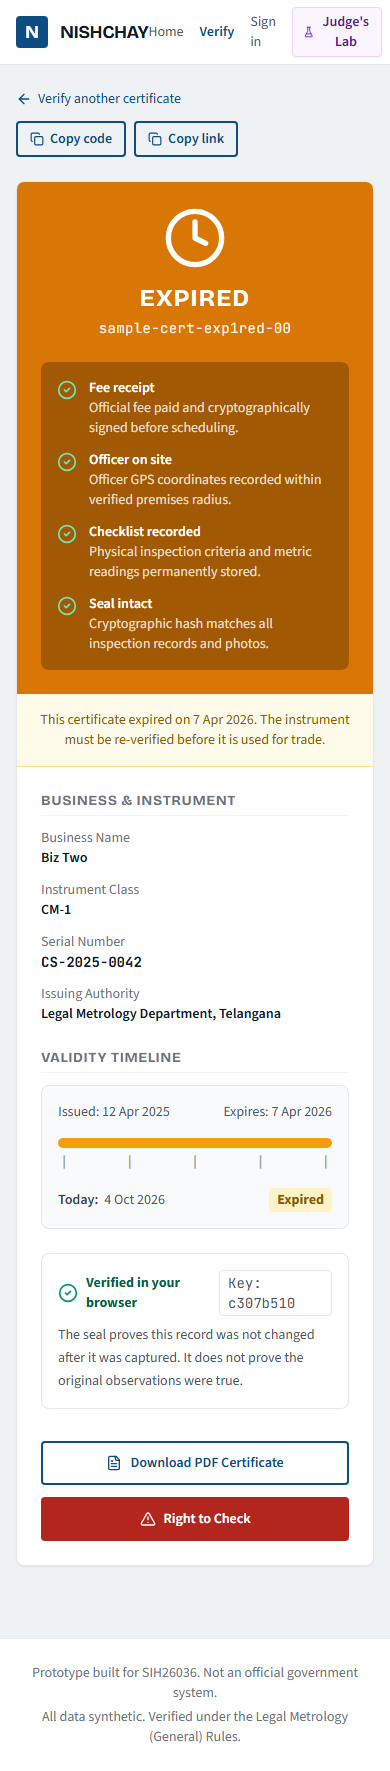
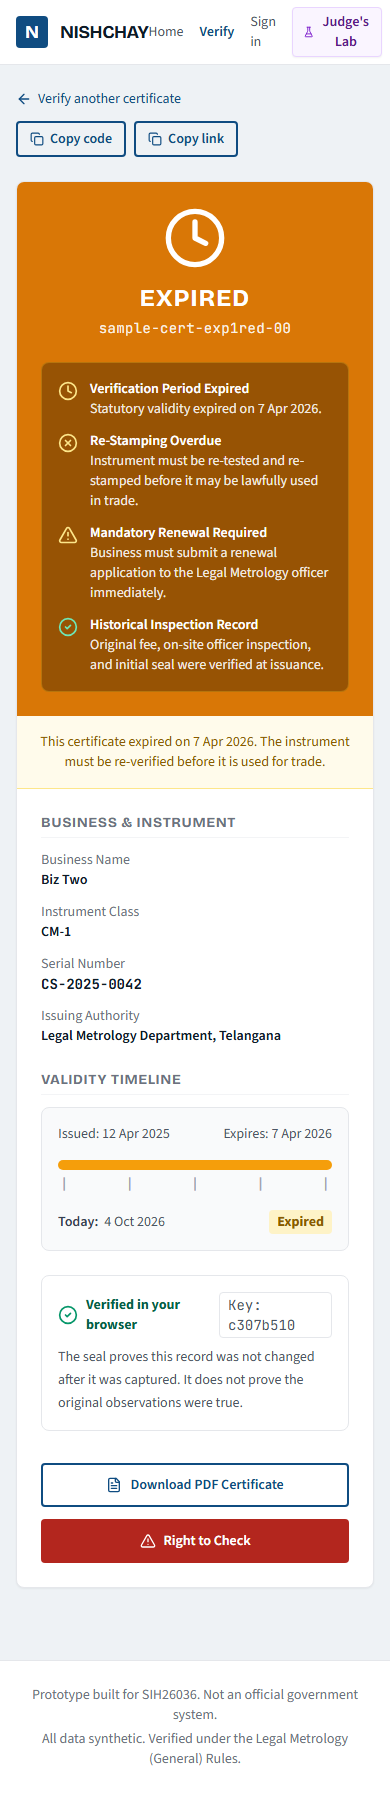
fix(ui): show contextual legal notices for revoked and expired certificates

diff --git a/web/src/pages/PublicVerify.tsx b/web/src/pages/PublicVerify.tsx
@@ -296,56 +296,142 @@ export const PublicVerify = () => {
             </h1>
             <p className="mt-1 opacity-90 font-mono text-sm tracking-wide">{id}</p>
             
-            {/* 4 Ticks derived from real data with sequential lighting */}
-            <div className="mt-6 w-full text-left space-y-3 bg-black/25 p-4 rounded-lg text-sm">
-              <div className={`flex items-start gap-3 transition-opacity duration-300 ${animStep >= 1 ? 'opacity-100' : 'opacity-40'}`}>
-                {data.ticks.feeReceipt ? (
-                  <CheckCircle2 className="w-5 h-5 text-emerald-300 shrink-0 mt-0.5" />
-                ) : (
-                  <XCircle className="w-5 h-5 text-red-300 shrink-0 mt-0.5" />
-                )}
-                <div>
-                  <div className="font-semibold">Fee receipt</div>
-                  <div className="text-xs text-white/80">Official fee paid and cryptographically signed before scheduling.</div>
+            {/* Contextual Status Plate Details */}
+            {isRevoked ? (
+              <div className="mt-6 w-full text-left space-y-3 bg-black/30 p-4 rounded-lg text-sm border border-red-400/30">
+                <div className="flex items-start gap-3">
+                  <Ban className="w-5 h-5 text-red-300 shrink-0 mt-0.5" />
+                  <div>
+                    <div className="font-semibold text-white">Statutory Revocation Order</div>
+                    <div className="text-xs text-white/90">
+                      Certificate revoked by order of Legal Metrology Authority on {data.revokedAt ? formatDate(data.revokedAt) : 'record date'}.
+                    </div>
+                  </div>
                 </div>
-              </div>
 
-              <div className={`flex items-start gap-3 transition-opacity duration-300 ${animStep >= 2 ? 'opacity-100' : 'opacity-40'}`}>
-                {data.ticks.officerOnSite ? (
-                  <CheckCircle2 className="w-5 h-5 text-emerald-300 shrink-0 mt-0.5" />
-                ) : (
+                <div className="flex items-start gap-3">
                   <XCircle className="w-5 h-5 text-red-300 shrink-0 mt-0.5" />
-                )}
-                <div>
-                  <div className="font-semibold">Officer on site</div>
-                  <div className="text-xs text-white/80">Officer GPS coordinates recorded within verified premises radius.</div>
+                  <div>
+                    <div className="font-semibold text-white">Commercial Trade Prohibited</div>
+                    <div className="text-xs text-white/90">
+                      Instrument is disqualified from commercial transactions under the Legal Metrology Act.
+                    </div>
+                  </div>
                 </div>
-              </div>
 
-              <div className={`flex items-start gap-3 transition-opacity duration-300 ${animStep >= 3 ? 'opacity-100' : 'opacity-40'}`}>
-                {data.ticks.checklistRecorded ? (
-                  <CheckCircle2 className="w-5 h-5 text-emerald-300 shrink-0 mt-0.5" />
-                ) : (
-                  <XCircle className="w-5 h-5 text-red-300 shrink-0 mt-0.5" />
-                )}
-                <div>
-                  <div className="font-semibold">Checklist recorded</div>
-                  <div className="text-xs text-white/80">Physical inspection criteria and metric readings permanently stored.</div>
+                <div className="flex items-start gap-3">
+                  <AlertTriangle className="w-5 h-5 text-amber-300 shrink-0 mt-0.5" />
+                  <div>
+                    <div className="font-semibold text-white">Enforcement Notice</div>
+                    <div className="text-xs text-white/90">
+                      Using this instrument for trade without fresh verification constitutes a punishable statutory offense.
+                    </div>
+                  </div>
                 </div>
-              </div>
 
-              <div className={`flex items-start gap-3 transition-opacity duration-300 ${animStep >= 4 ? 'opacity-100' : 'opacity-40'}`}>
-                {data.ticks.sealIntact ? (
-                  <CheckCircle2 className="w-5 h-5 text-emerald-300 shrink-0 mt-0.5" />
-                ) : (
+                <div className="flex items-start gap-3">
                   <XCircle className="w-5 h-5 text-red-300 shrink-0 mt-0.5" />
-                )}
-                <div>
-                  <div className="font-semibold">Seal intact</div>
-                  <div className="text-xs text-white/80">Cryptographic hash matches all inspection records and photos.</div>
+                  <div>
+                    <div className="font-semibold text-white">Certificate Null and Void</div>
+                    <div className="text-xs text-white/90">
+                      Prior inspection certificate is cancelled and cannot be relied upon by citizens or traders.
+                    </div>
+                  </div>
                 </div>
               </div>
-            </div>
+            ) : isExpired ? (
+              <div className="mt-6 w-full text-left space-y-3 bg-black/30 p-4 rounded-lg text-sm border border-amber-400/30">
+                <div className="flex items-start gap-3">
+                  <Clock className="w-5 h-5 text-amber-200 shrink-0 mt-0.5" />
+                  <div>
+                    <div className="font-semibold text-white">Verification Period Expired</div>
+                    <div className="text-xs text-white/90">
+                      Statutory validity expired on {data.validUntil ? formatDate(data.validUntil) : 'expiry date'}.
+                    </div>
+                  </div>
+                </div>
+
+                <div className="flex items-start gap-3">
+                  <XCircle className="w-5 h-5 text-amber-200 shrink-0 mt-0.5" />
+                  <div>
+                    <div className="font-semibold text-white">Re-Stamping Overdue</div>
+                    <div className="text-xs text-white/90">
+                      Instrument must be re-tested and re-stamped before it may be lawfully used in trade.
+                    </div>
+                  </div>
+                </div>
+
+                <div className="flex items-start gap-3">
+                  <AlertTriangle className="w-5 h-5 text-amber-200 shrink-0 mt-0.5" />
+                  <div>
+                    <div className="font-semibold text-white">Mandatory Renewal Required</div>
+                    <div className="text-xs text-white/90">
+                      Business must submit a renewal application to the Legal Metrology officer immediately.
+                    </div>
+                  </div>
+                </div>
+
+                <div className="flex items-start gap-3">
+                  <CheckCircle2 className="w-5 h-5 text-emerald-300 shrink-0 mt-0.5" />
+                  <div>
+                    <div className="font-semibold text-white">Historical Inspection Record</div>
+                    <div className="text-xs text-white/90">
+                      Original fee, on-site officer inspection, and initial seal were verified at issuance.
+                    </div>
+                  </div>
+                </div>
+              </div>
+            ) : (
+              <div className="mt-6 w-full text-left space-y-3 bg-black/25 p-4 rounded-lg text-sm">
+                <div className={`flex items-start gap-3 transition-opacity duration-300 ${animStep >= 1 ? 'opacity-100' : 'opacity-40'}`}>
+                  {data.ticks.feeReceipt ? (
+                    <CheckCircle2 className="w-5 h-5 text-emerald-300 shrink-0 mt-0.5" />
+                  ) : (
+                    <XCircle className="w-5 h-5 text-red-300 shrink-0 mt-0.5" />
+                  )}
+                  <div>
+                    <div className="font-semibold">Fee receipt</div>
+                    <div className="text-xs text-white/80">Official fee paid and cryptographically signed before scheduling.</div>
+                  </div>
+                </div>
+
+                <div className={`flex items-start gap-3 transition-opacity duration-300 ${animStep >= 2 ? 'opacity-100' : 'opacity-40'}`}>
+                  {data.ticks.officerOnSite ? (
+                    <CheckCircle2 className="w-5 h-5 text-emerald-300 shrink-0 mt-0.5" />
+                  ) : (
+                    <XCircle className="w-5 h-5 text-red-300 shrink-0 mt-0.5" />
+                  )}
+                  <div>
+                    <div className="font-semibold">Officer on site</div>
+                    <div className="text-xs text-white/80">Officer GPS coordinates recorded within verified premises radius.</div>
+                  </div>
+                </div>
+
+                <div className={`flex items-start gap-3 transition-opacity duration-300 ${animStep >= 3 ? 'opacity-100' : 'opacity-40'}`}>
+                  {data.ticks.checklistRecorded ? (
+                    <CheckCircle2 className="w-5 h-5 text-emerald-300 shrink-0 mt-0.5" />
+                  ) : (
+                    <XCircle className="w-5 h-5 text-red-300 shrink-0 mt-0.5" />
+                  )}
+                  <div>
+                    <div className="font-semibold">Checklist recorded</div>
+                    <div className="text-xs text-white/80">Physical inspection criteria and metric readings permanently stored.</div>
+                  </div>
+                </div>
+
+                <div className={`flex items-start gap-3 transition-opacity duration-300 ${animStep >= 4 ? 'opacity-100' : 'opacity-40'}`}>
+                  {data.ticks.sealIntact ? (
+                    <CheckCircle2 className="w-5 h-5 text-emerald-300 shrink-0 mt-0.5" />
+                  ) : (
+                    <XCircle className="w-5 h-5 text-red-300 shrink-0 mt-0.5" />
+                  )}
+                  <div>
+                    <div className="font-semibold">Seal intact</div>
+                    <div className="text-xs text-white/80">Cryptographic hash matches all inspection records and photos.</div>
+                  </div>
+                </div>
+              </div>
+            )}
           </div>
 
           {/* Status Banner Message */}
